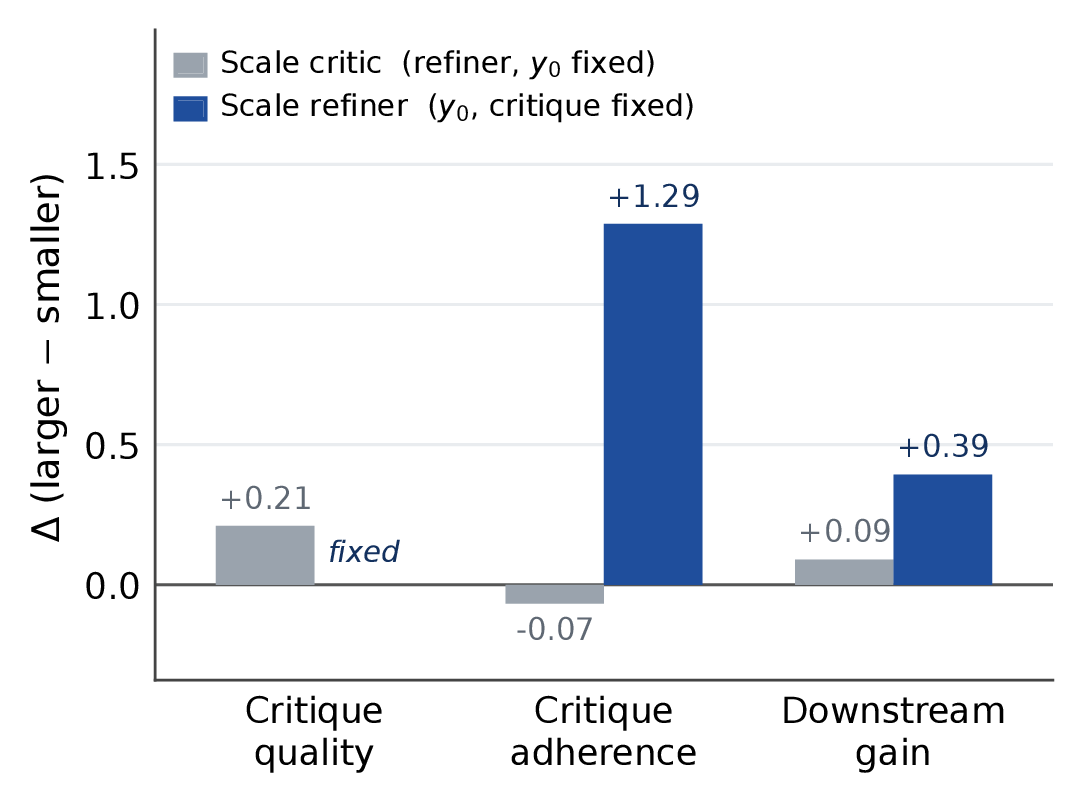
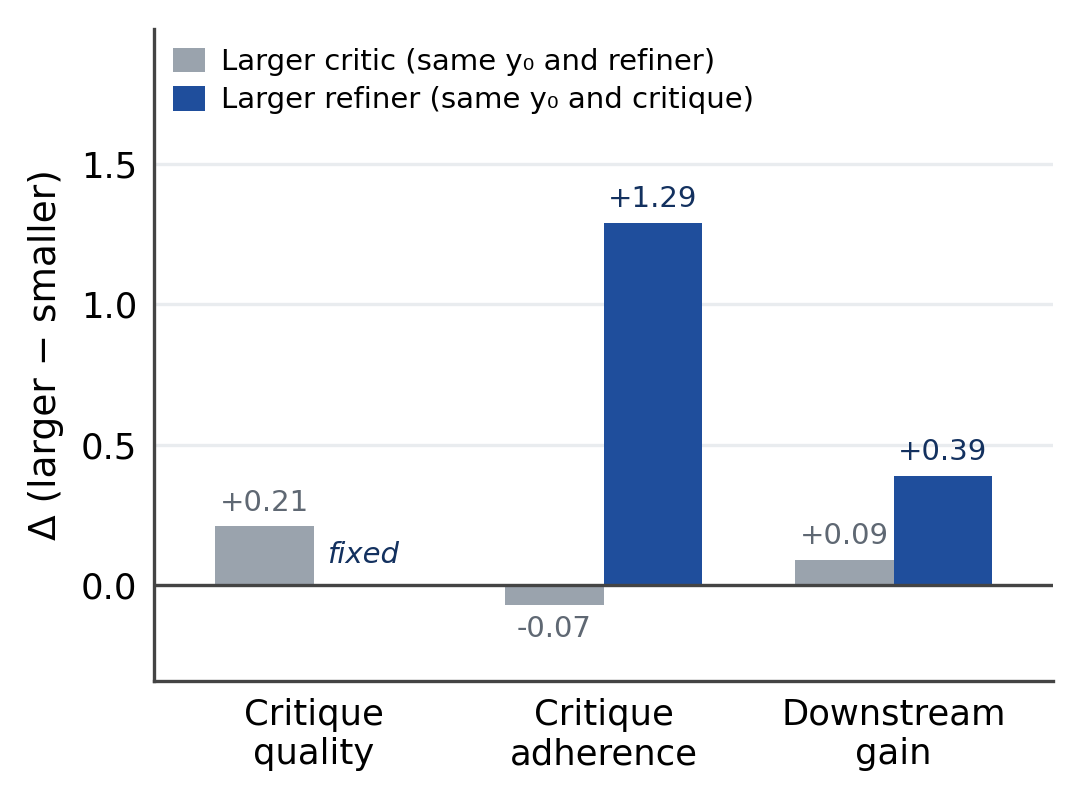
update

diff --git a/projects/taiscore/index.html b/projects/taiscore/index.html
@@ -10,7 +10,7 @@
 
   <meta property="og:title" content="Co-Evolving Actor-Conditioned Critics for Non-Verifiable Generation">
   <meta property="og:description"
-        content="TAIScore rewards critiques that identify a real weakness, are followed by the target actor, and cause targeted improvement — enabling co-evolving critic-actor training.">
+        content="TAIScore rewards critiques that identify a real weakness, are followed by the target actor, and cause targeted improvement, enabling co-evolving critic-actor training.">
   <meta property="og:type" content="website">
   <meta property="og:url" content="https://jiny1623.github.io/projects/taiscore/">
 
@@ -249,7 +249,7 @@
             initial response, critique, and revision together, assessing whether the critique targets a
             real weakness, whether the actor follows it, and whether the intended aspect improves. We use
             this reward to train an actor-tailored critic with GRPO, and use critique-guided refinements
-            to construct DPO preference pairs for the actor, forming a co-evolving critic&ndash;actor
+            to construct DPO preference pairs for the actor, forming a co-evolving critic-actor
             loop where the critic adapts to the actor's changing capability.
           </p>
           <p>
@@ -276,30 +276,28 @@
           <p>
             We run two controlled analyses on 1,000 WritingBench examples, varying one role at a time,
             to test whether critique usefulness is intrinsic to the critique or conditioned on the actor.
-            The result is a clear asymmetry. <strong>Scaling the critic</strong> (8B&rarr;32B for Qwen,
+            The result is a clear asymmetry. A <strong>larger critic</strong> (8B&rarr;32B for Qwen,
             8B&rarr;70B for Llama), with the initial response and revising actor held fixed, consistently
-            improves standalone critique quality but does not reliably lead the actor to incorporate the
-            feedback or yield larger downstream gains &mdash; for a Qwen3-8B refiner, critique adherence
-            actually <em>drops</em> by 0.223 when the critic is scaled up. <strong>Scaling the actor</strong>,
-            with the same critique held fixed, substantially improves both adherence (+1.29 on average) and
-            downstream gain (+0.39). Critique usefulness is therefore a property of the
-            <em>critique&ndash;actor pair</em>, not of the critique alone.
+            improves standalone critique quality but yields little average improvement in how well the
+            actor incorporates the feedback or in downstream gain. For a Qwen3-8B refiner, critique
+            adherence actually <em>drops</em> by 0.223 under the larger critic. A
+            <strong>larger refiner</strong>, given the same critique, substantially improves both
+            adherence (+1.29 on average) and downstream gain (+0.39). Critique usefulness is therefore a
+            property of the <em>critique-actor pair</em>, not of the critique alone.
           </p>
           <div class="figure" style="margin-top: 1.5em;">
             <img src="./figure/motiv_means_sans.png"
-                 alt="Controlled analysis: scaling critic vs. scaling actor on critique adherence and gain"
+                 alt="Controlled analysis: larger critic vs. larger refiner on critique adherence and gain"
                  style="display: block; margin: auto; max-width: 72%;">
             <p class="caption">
-              Controlled zero-shot analysis of critique-guided refinement, summarized as mean deltas over
-              controlled comparisons. <em>Critique quality</em> measures standalone feedback quality and
-              never observes the revision. <em>Critique adherence</em> measures how well the actor
-              incorporates the critique into its revision (rather than making unrelated edits).
-              <em>Gain</em> is the downstream improvement
-              S(y<sub>1</sub>)&minus;S(y<sub>0</sub>) under the WritingBench evaluator. Scaling the critic
-              improves standalone critique quality but does not reliably lead the actor to follow the
-              feedback or yield larger gains. In contrast, scaling the actor while keeping the same
-              critique fixed produces substantially larger improvements in both feedback uptake and
-              downstream quality.
+              Controlled zero-shot analysis of critique-guided refinement on WritingBench. Bars show mean
+              differences between larger- and smaller-model conditions in critique quality, critique
+              adherence (how well y<sub>1</sub> implements c), and response-quality gain
+              S(y<sub>1</sub>)&minus;S(y<sub>0</sub>). Gray bars compare larger and smaller critics while
+              holding y<sub>0</sub> and the refiner fixed; blue bars compare larger and smaller refiners
+              while holding y<sub>0</sub> and the critique fixed. Larger critics improve standalone
+              critique quality but yield little average improvement in adherence or gain, whereas larger
+              refiners substantially improve both.
             </p>
           </div>
 
@@ -367,7 +365,7 @@
             <img src="./figure/method.png"
                  alt="Overview of co-evolving critic-actor training framework">
             <p class="caption">
-              Overview of our co-evolving critic&ndash;actor training framework. For the current actor
+              Overview of our co-evolving critic-actor training framework. For the current actor
               &pi;<sub>t</sub>, the critic &kappa;<sub>t</sub> samples multiple critiques for the same
               initial response y<sub>0</sub>. Each critique produces a rollout
               &tau;<sub>i</sub>&nbsp;=&nbsp;(x,&nbsp;y<sub>0</sub>,&nbsp;c<sub>i</sub>,&nbsp;y<sub>1,i</sub>).
@@ -396,9 +394,9 @@
         <div class="content has-text-justified setup-list">
           <ul>
             <li>
-              <strong>Domains.</strong> <em>Creative writing</em> &mdash; trained on DeepWriting-20K
+              <strong>Domains.</strong> <em>Creative writing</em>: trained on DeepWriting-20K
               prompts, evaluated on WritingBench and HelloBench (Open-Ended QA and Heuristic Text
-              Generation subsets). <em>Deep research</em> &mdash; trained on OpenScholar queries,
+              Generation subsets). <em>Deep research</em>: trained on OpenScholar queries,
               evaluated on DeepResearch-Gym (key-point recall, key-point contradiction, report quality).
               We use 6K training queries per domain.
             </li>
@@ -517,7 +515,7 @@
                   <td><u>82.63</u><span class="std">&nbsp;&plusmn;0.06</span></td>
                 </tr>
                 <tr class="group-row">
-                  <td colspan="7">Co-evolving critic&ndash;actor training</td>
+                  <td colspan="7">Co-evolving critic-actor training</td>
                 </tr>
                 <tr>
                   <td><strong>TAIScore + co-evolution (ours)</strong></td>
@@ -587,7 +585,7 @@
             </table>
           </div>
           <p class="table-note">
-            Majority-vote preferences over 50 prompts. Rows 2&ndash;3 each omit one prompt for which the
+            Majority-vote preferences over 50 prompts. Rows 2 and 3 each omit one prompt for which the
             three annotators produced no majority decision.
           </p>
         </div>
@@ -609,7 +607,7 @@
             Does the advantage of TAIScore depend on the actor-training pipeline, or is the feedback
             itself simply better? We hold the prompts, initial responses
             (S(y<sub>0</sub>)&nbsp;=&nbsp;72.33), <code>Qwen3-8B</code> reviser, revision prompt, decoding
-            configuration, and evaluator fixed, and vary <em>only</em> the supplied feedback &mdash; with
+            configuration, and evaluator fixed, and vary <em>only</em> the supplied feedback, with
             no actor update and no preference filtering.
           </p>
 
@@ -679,7 +677,7 @@
             <li>
               Panel (b) rules out generic second-pass improvement. Revising with no critique or a generic
               critique gains only +0.97 and +1.01, and a TAIScore critique <em>sampled from a different
-              example</em> gains just +0.55 &mdash; below the no-critique control &mdash; despite
+              example</em> gains just +0.55, below the no-critique control, despite
               preserving the source and form of the feedback. The matched critique beats the strongest
               control by <strong>1.77 points</strong>, so the gain depends on instance-specific,
               correctly matched critique content rather than on the actor's general ability to improve on
@@ -699,12 +697,12 @@
   <div class="container is-max-desktop">
     <div class="columns is-centered has-text-centered">
       <div class="column is-full-width">
-        <h2 class="title is-3">Actor&ndash;Critic Matching</h2>
+        <h2 class="title is-3">Actor-Critic Matching</h2>
         <div class="content has-text-justified">
           <p>
             If critique usefulness is actor-conditioned, a critic should be most effective for the actor
-            it was tailored to. We fix the target actor to <code>Qwen3-8B</code> and train three critics
-            &mdash; tailored respectively to <code>Llama-3.2-3B</code>, <code>Qwen3-4B</code>, and
+            it was tailored to. We fix the target actor to <code>Qwen3-8B</code> and train three critics,
+            tailored respectively to <code>Llama-3.2-3B</code>, <code>Qwen3-4B</code>, and
             <code>Qwen3-8B</code>. All three start from the same <code>Qwen3-8B</code> checkpoint and use
             the same TAIScore training procedure and budget; only the actor they are tailored to changes.
             Each critic then constructs DPO pairs for the same target actor.
@@ -722,7 +720,7 @@
               <tbody>
                 <tr>
                   <td>None (base actor)</td>
-                  <td>72.33</td><td>&mdash;</td>
+                  <td>72.33</td><td>-</td>
                 </tr>
                 <tr>
                   <td><code>Llama-3.2-3B</code></td>
@@ -745,8 +743,8 @@
           </p>
 
           <p style="margin-top: 1.2em;">
-            Critique behavior learned with one actor remains useful to others &mdash; even across model
-            families, as the <code>Llama-3.2-3B</code>-tailored critic still gains +2.29. But the ordering
+            Critique behavior learned with one actor remains useful to others, even across model
+            families: the <code>Llama-3.2-3B</code>-tailored critic still gains +2.29. But the ordering
             tracks how closely the tailoring actor matches the target: matching the critic to the target
             actor yields the largest gain, outperforming the <code>Qwen3-4B</code>-tailored critic by 0.88
             points and the <code>Llama-3.2-3B</code>-tailored critic by 1.34 points.
